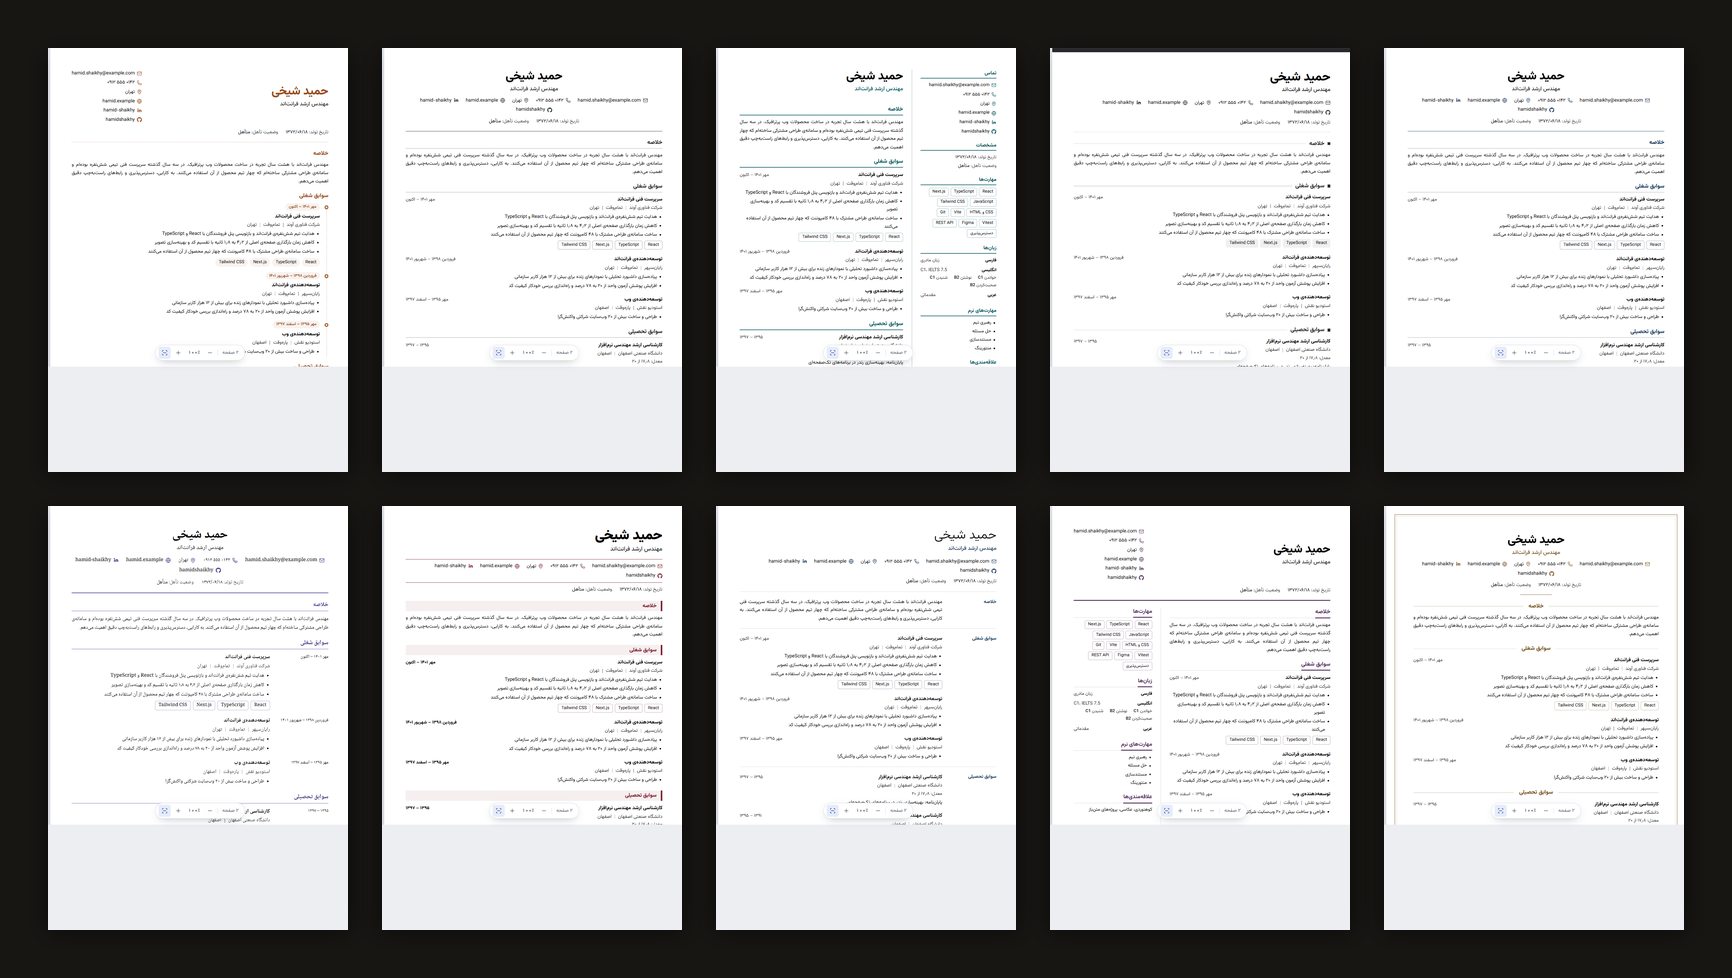
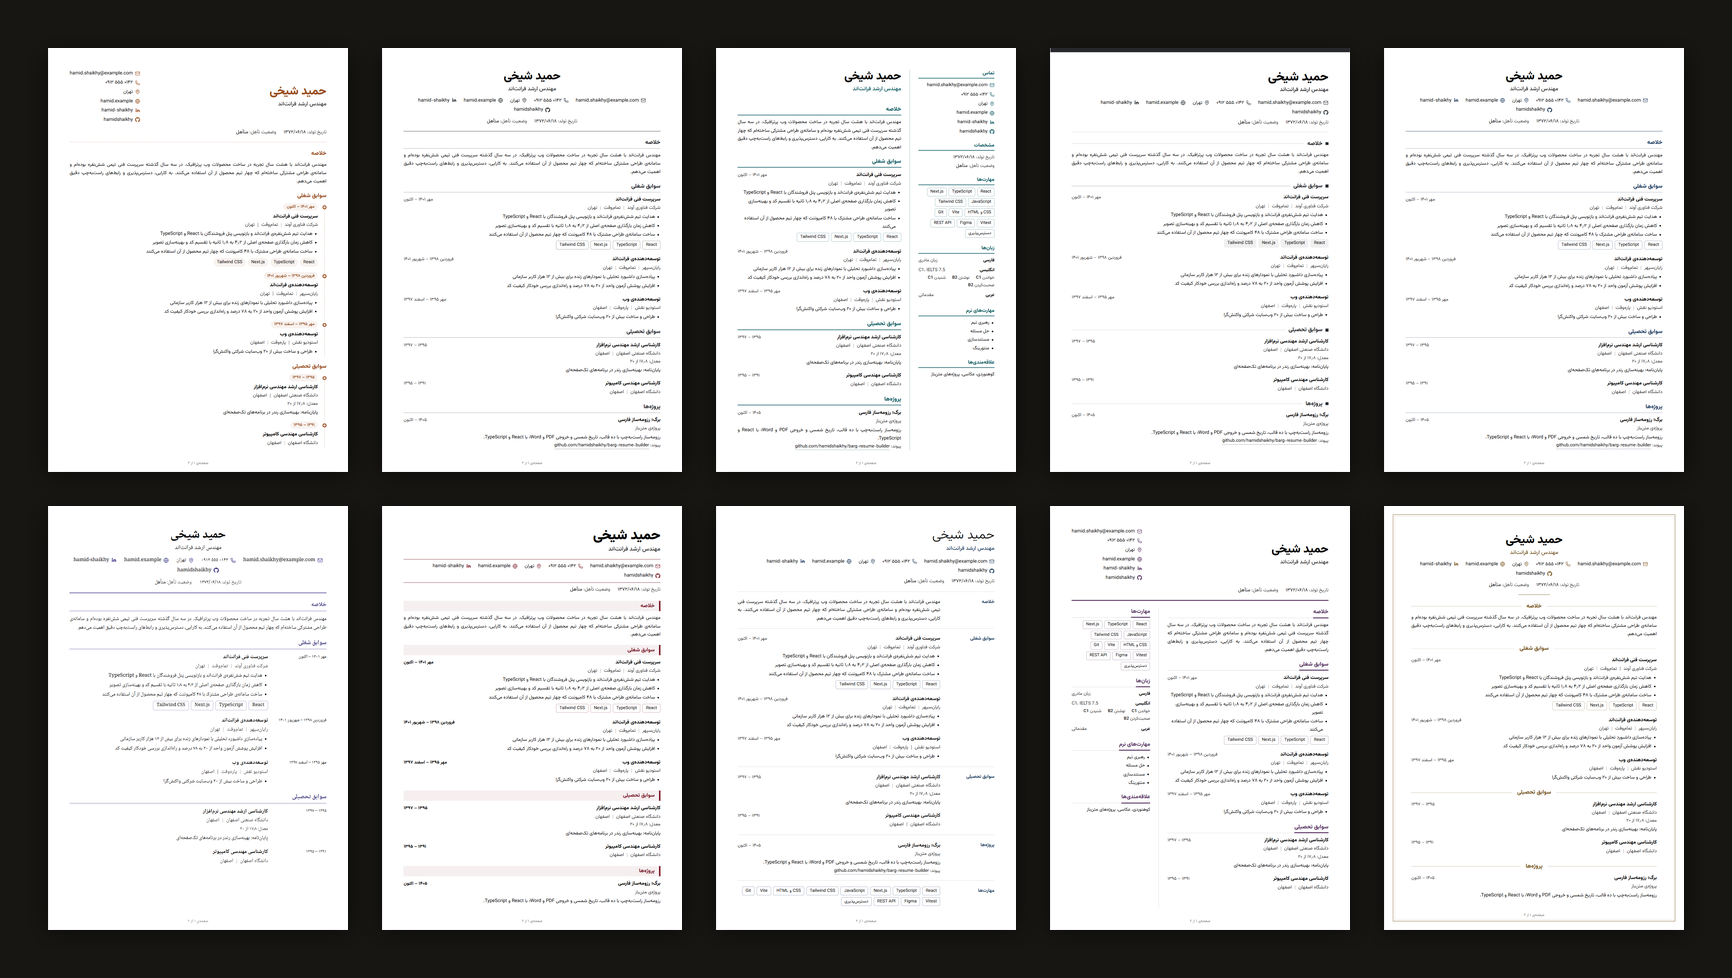
Retake the template gallery with full pages and trim the README footer

diff --git a/README.md b/README.md
@@ -257,5 +257,3 @@ cd barg-resume-builder
 npm install
 npm run dev
 ```
-
-The landing page's motion design is adapted from [Reactive Resume](https://github.com/reactive-resume/reactive-resume) (MIT). Designed and built by [Hamid Shaikhy](https://github.com/hamidshaikhy).
